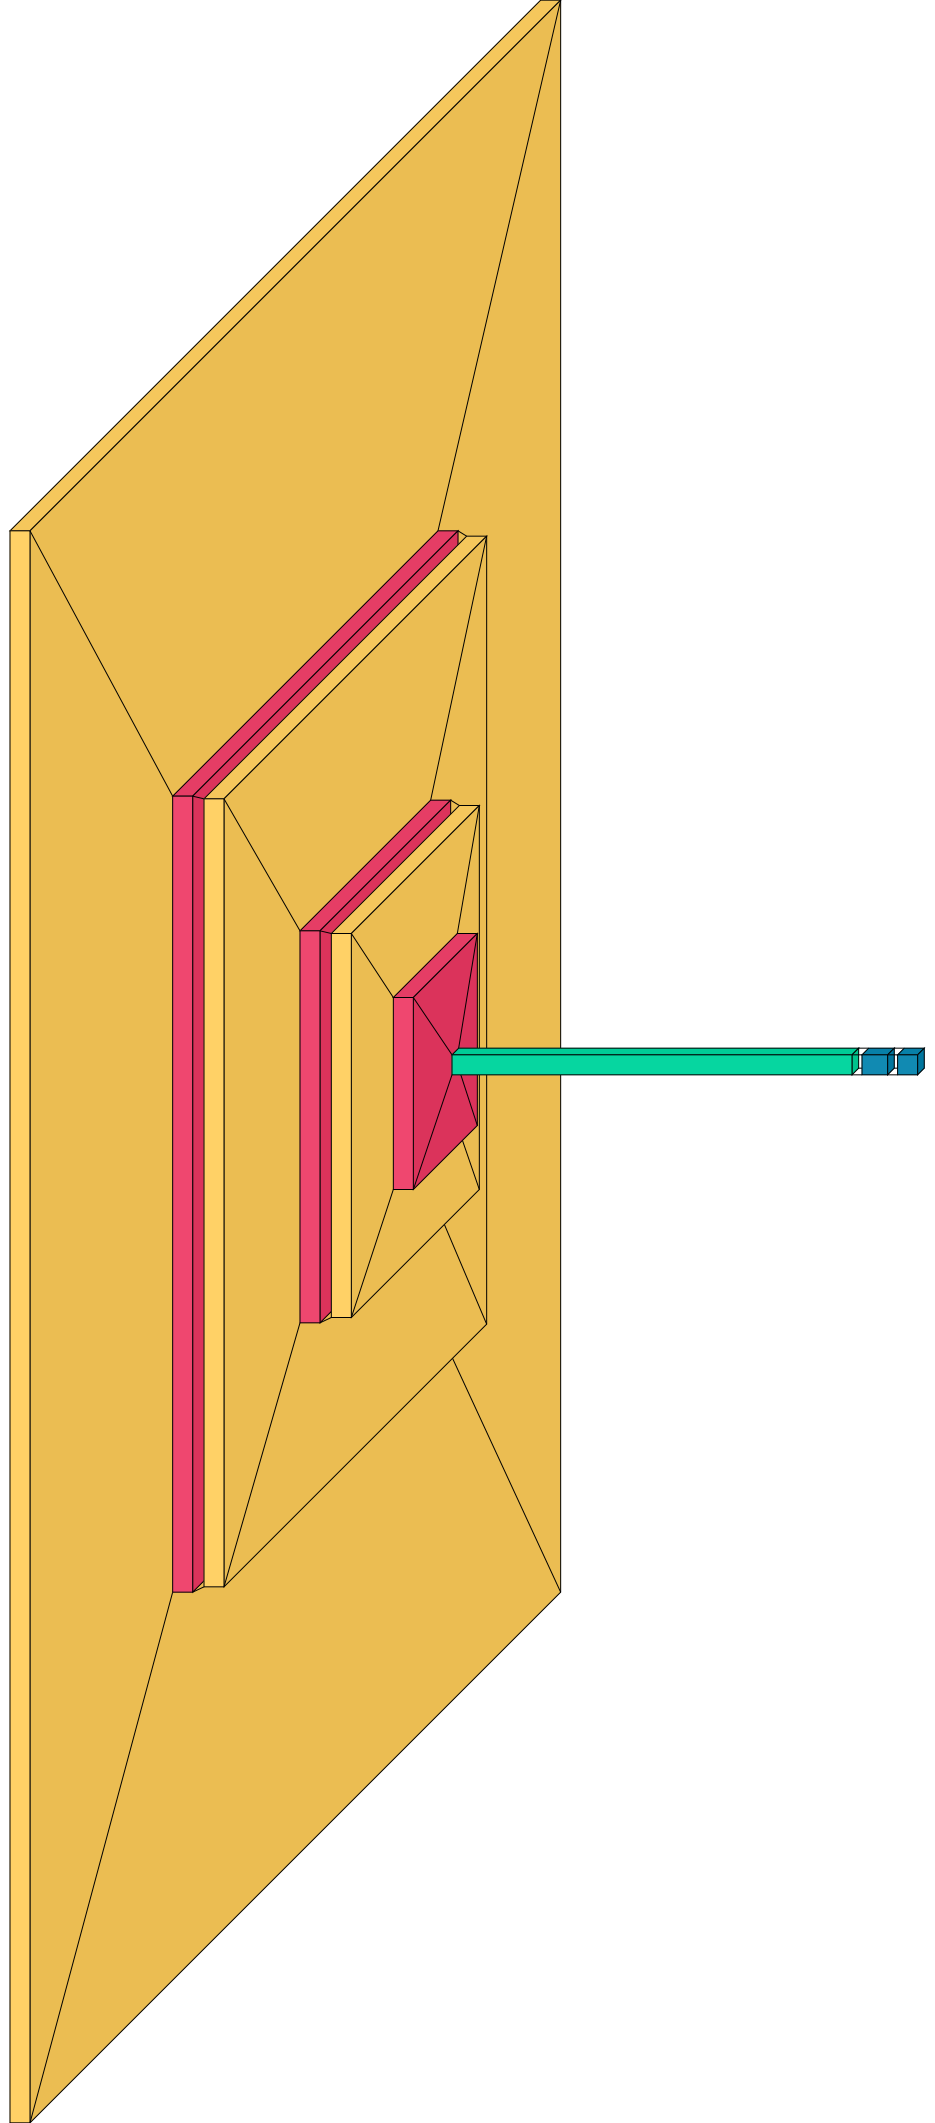
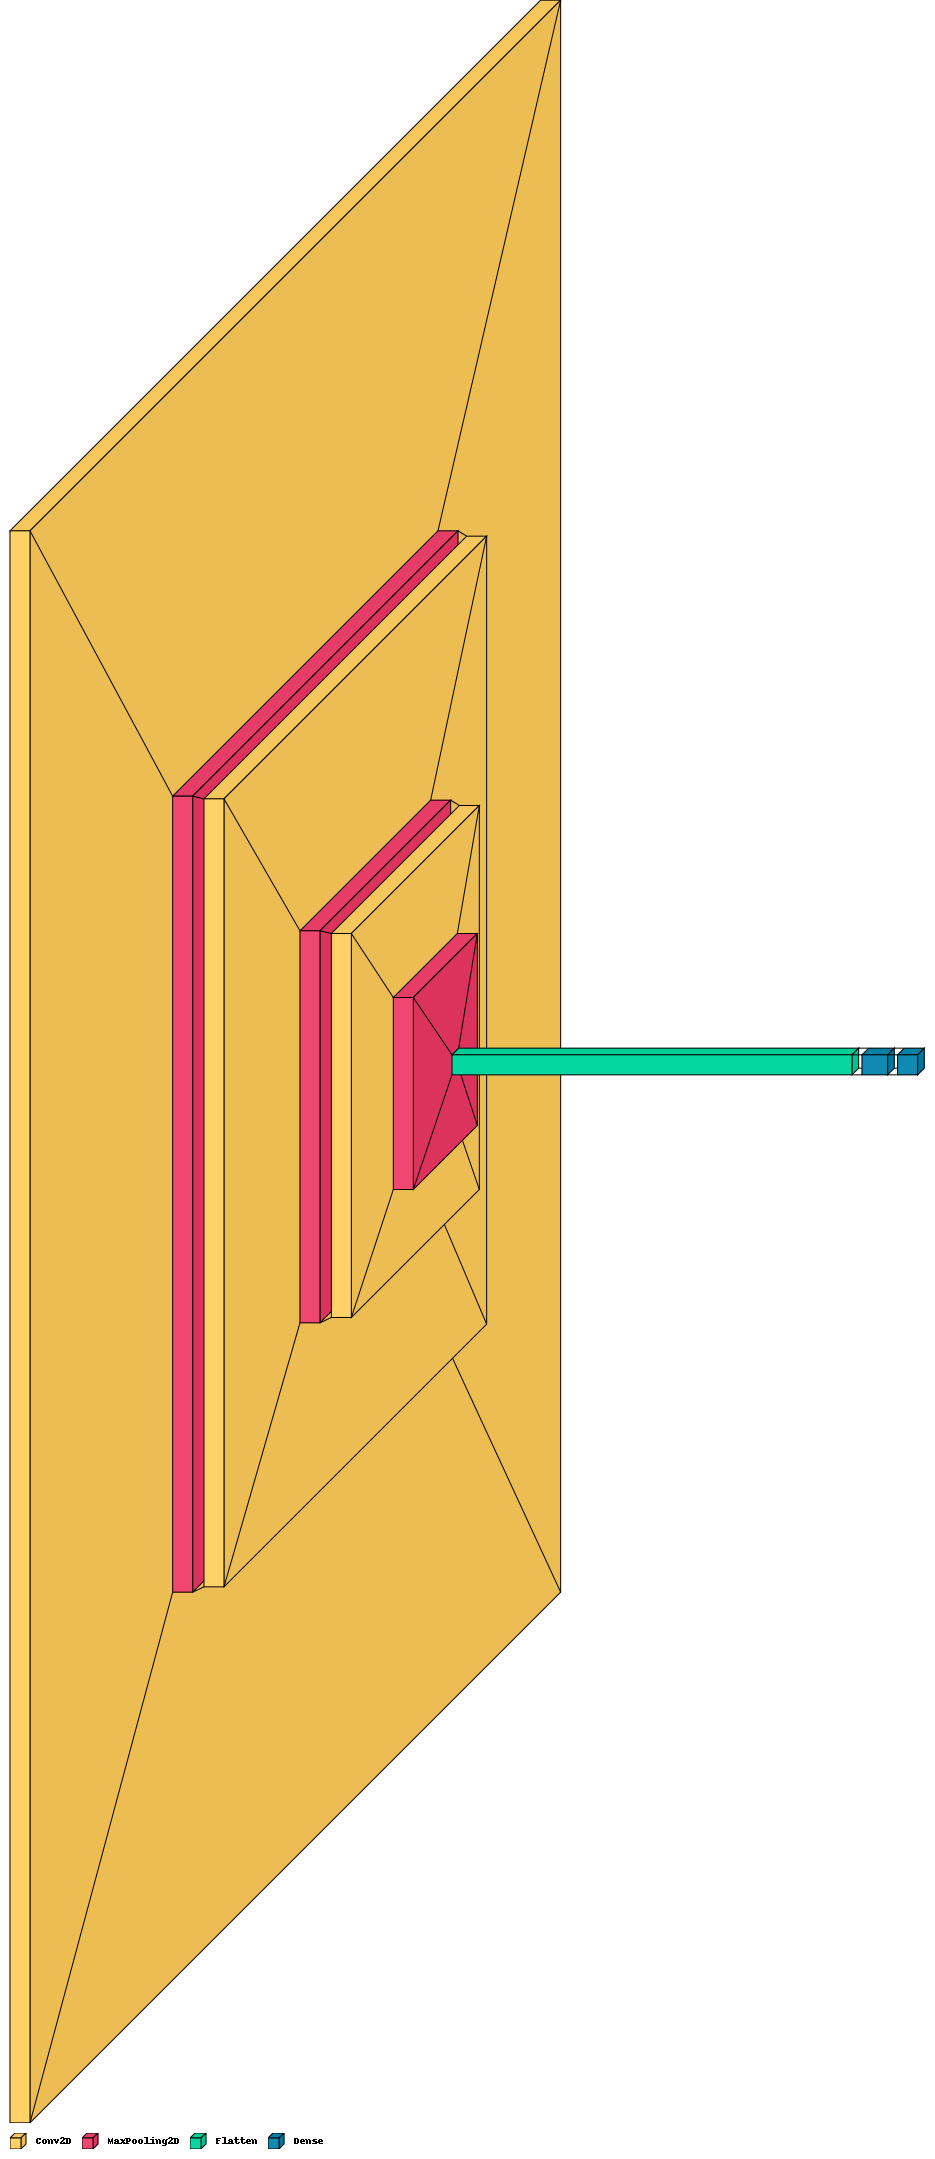
Updated: colocando legenda dos layers na foto do modelo

diff --git a/train.py b/train.py
@@ -59,7 +59,8 @@ model.compile(optimizer=Adam(learning_rate=0.001), loss='binary_crossentropy', m
 
 # Salva o modelo para visualizacao
 model.summary()
-visualkeras.layered_view(model).save('model.png')
+
+visualkeras.layered_view(model, legend=True).save('model.png')
 
 # Treina o modelo.
 model.fit(
